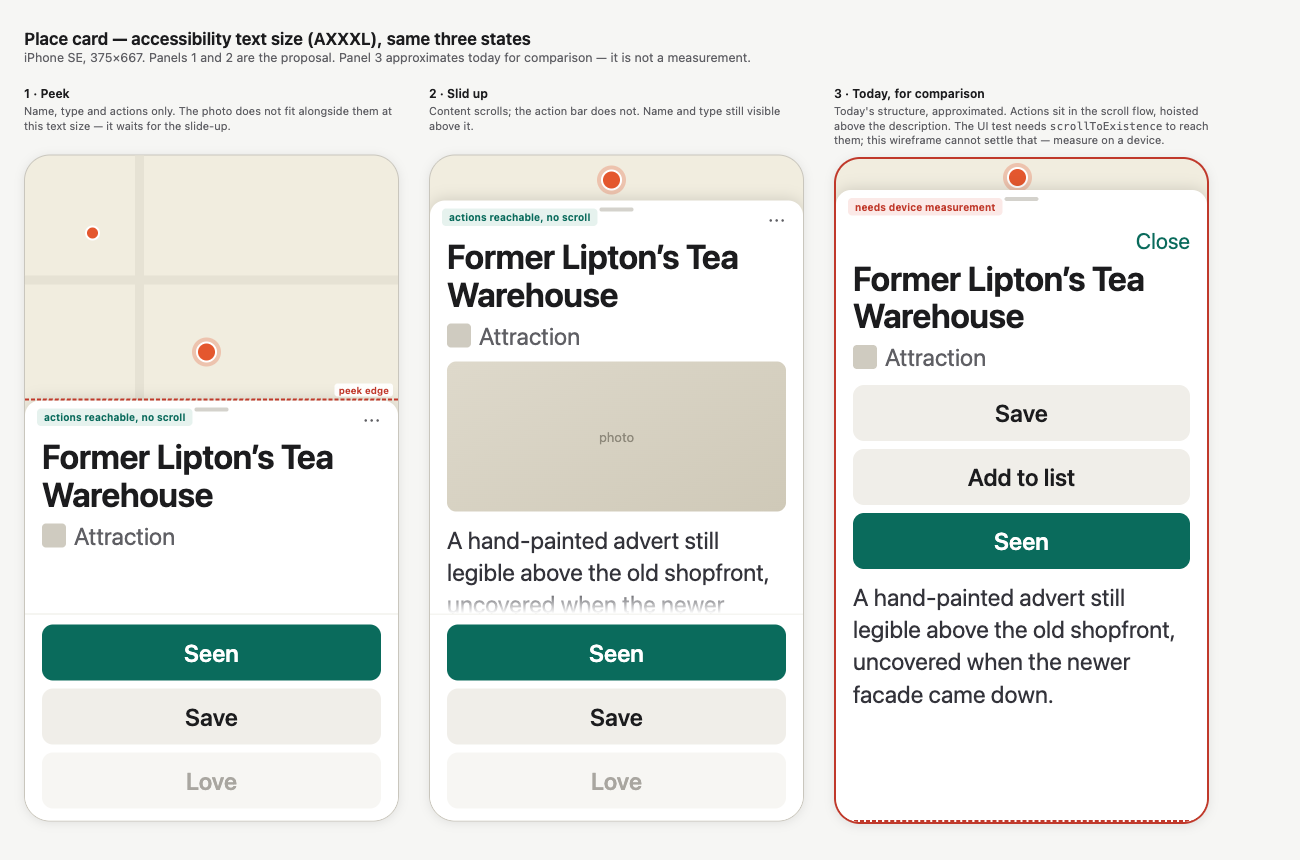
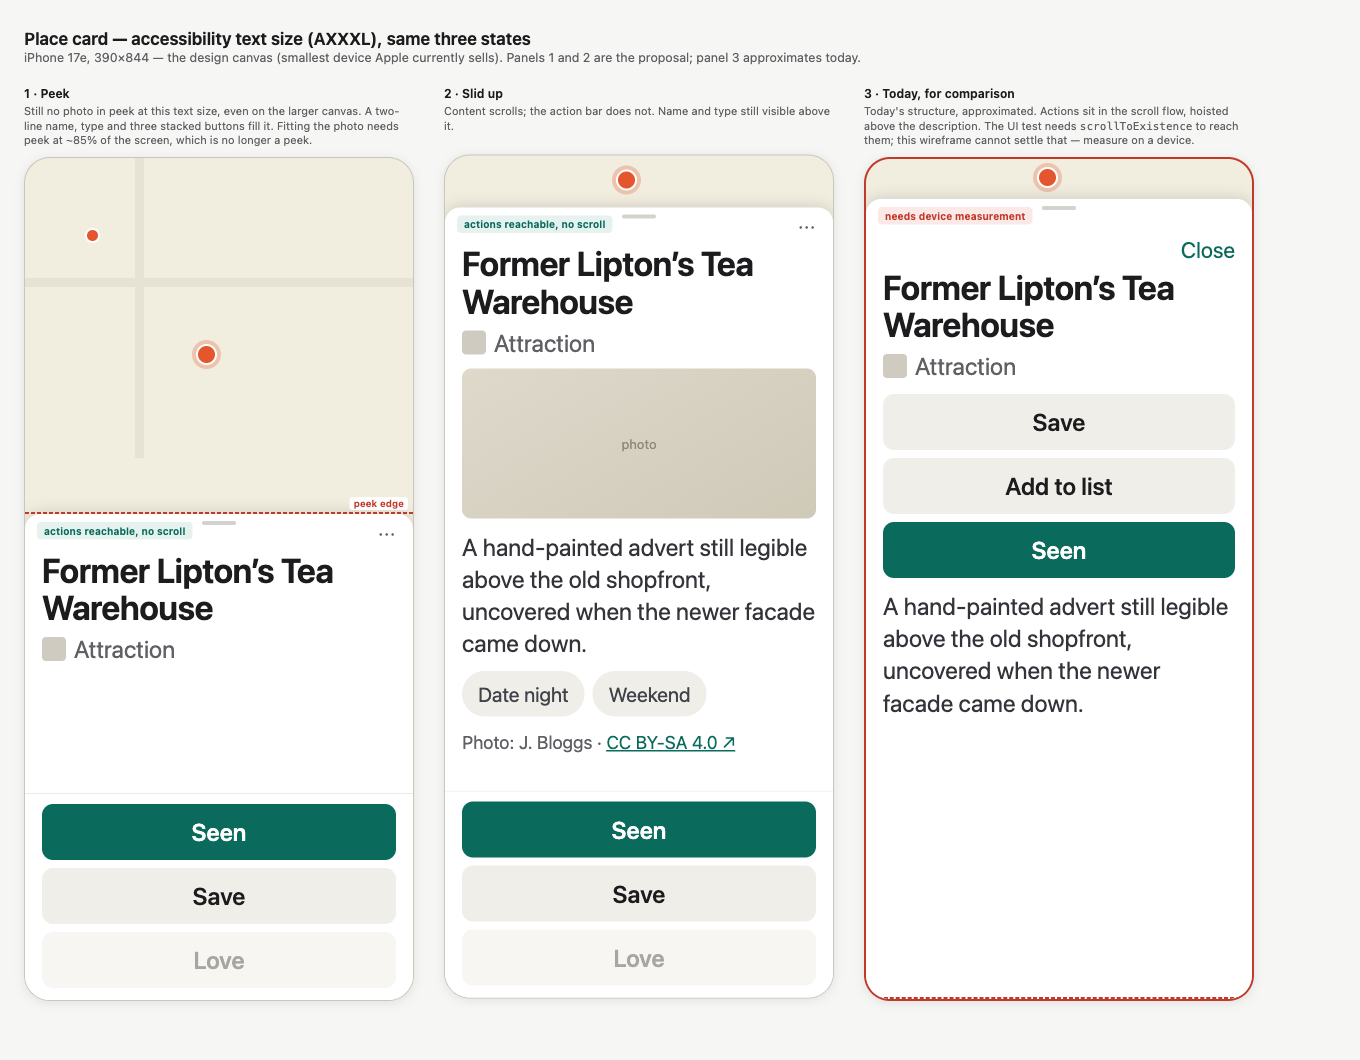
docs: WP-CARD-LAYOUT re-render on the correct device floor
Adds the two-tier device ruling: deployment target stays iOS 18, design
floor is what Apple currently sells, everything between gets degradation
verified rather than optimised.

Research finding: the OS-version argument does not move the floor. iOS 27
drops no devices relative to 26, and the smallest screens on iOS 18 are
supported by 27 too. Only the still-sold criterion raises it.

Canvas moves from 375x667 to 390x844. Also corrects the mini to 360x780
per Apple's HIG; third-party spec sites have it wrong, so the true width
floor is narrower than the SE.

The peek photo finding was re-derived on the new canvas, not ported. It
survives, more narrowly.

diff --git a/docs/design/card/wf-ax.html b/docs/design/card/wf-ax.html
@@ -7,10 +7,10 @@
   h1{ font-size:17px; font-weight:650; margin-bottom:2px; }
   .sub{ font-size:12.5px; color:var(--dim); margin-bottom:22px; }
   .row{ display:flex; gap:30px; align-items:flex-start; }
-  .col{ width:375px; }
+  .col{ width:390px; }
   .cap{ font-size:12px; font-weight:650; margin-bottom:3px; }
   .capsub{ font-size:11px; color:var(--dim); margin-bottom:9px; line-height:1.35; min-height:42px;}
-  .phone{ width:375px; height:667px; border:1px solid #c9c6bd; border-radius:26px; overflow:hidden; position:relative; background:var(--paper); box-shadow:0 2px 10px rgba(0,0,0,.09); }
+  .phone{ width:390px; height:844px; border:1px solid #c9c6bd; border-radius:26px; overflow:hidden; position:relative; background:var(--paper); box-shadow:0 2px 10px rgba(0,0,0,.09); }
   .map{ position:absolute; inset:0; }
   .road{ position:absolute; background:#e6e2d4; }
   .pin{ position:absolute; width:15px; height:15px; border-radius:50%; background:var(--pin); border:2px solid #fff; }
@@ -44,22 +44,22 @@
 </style></head><body>
 
 <h1>Place card — accessibility text size (AXXXL), same three states</h1>
-<div class="sub">iPhone SE, 375&times;667. Panels 1 and 2 are the proposal. Panel 3 approximates today for comparison — it is not a measurement.</div>
+<div class="sub">iPhone 17e, 390&times;844 — the design canvas (smallest device Apple currently sells). Panels 1 and 2 are the proposal; panel 3 approximates today.</div>
 
 <div class="row">
 
   <!-- PEEK AX -->
   <div class="col">
     <div class="cap">1 · Peek</div>
-    <div class="capsub">Name, type and actions only. The photo does not fit alongside them at this text size — it waits for the slide-up.</div>
+    <div class="capsub">Still no photo in peek at this text size, even on the larger canvas. A two-line name, type and three stacked buttons fill it. Fitting the photo needs peek at ~85% of the screen, which is no longer a peek.</div>
     <div class="phone">
       <div class="map">
-        <div class="road" style="left:0;top:120px;width:375px;height:9px"></div>
+        <div class="road" style="left:0;top:120px;width:390px;height:9px"></div>
         <div class="road" style="left:110px;top:0;width:9px;height:300px"></div>
         <div class="pin" style="left:60px;top:70px"></div>
         <div class="pin sel" style="left:171px;top:186px"></div>
       </div>
-      <div class="sheet" style="height:420px">
+      <div class="sheet" style="height:486px">
         <div class="badge ok">actions reachable, no scroll</div>
         <div class="grab"></div>
         <div class="ovf">⋯</div>
@@ -72,8 +72,8 @@
           <div class="btn prom">Seen</div><div class="btn">Save</div><div class="btn ghost">Love</div>
         </div>
       </div>
-      <div class="fold" style="bottom:420px"></div>
-      <div class="foldlab" style="bottom:424px">peek edge</div>
+      <div class="fold" style="bottom:486px"></div>
+      <div class="foldlab" style="bottom:490px">peek edge</div>
     </div>
   </div>
 
@@ -83,7 +83,7 @@
     <div class="capsub">Content scrolls; the action bar does not. Name and type still visible above it.</div>
     <div class="phone">
       <div class="map"><div class="pin sel" style="left:171px;top:14px"></div></div>
-      <div class="sheet" style="height:620px">
+      <div class="sheet" style="height:790px">
         <div class="badge ok">actions reachable, no scroll</div>
         <div class="grab"></div>
         <div class="ovf">⋯</div>
@@ -111,7 +111,7 @@
     <div class="capsub">Today's structure, approximated. Actions sit in the scroll flow, hoisted above the description. The UI test needs <code>scrollToExistence</code> to reach them; this wireframe cannot settle that — measure on a device.</div>
     <div class="phone bad" style="border-width:2px">
       <div class="map"><div class="pin sel" style="left:171px;top:8px"></div></div>
-      <div class="sheet" style="height:632px">
+      <div class="sheet" style="height:800px">
         <div class="badge no">needs device measurement</div>
         <div class="grab"></div>
         <div class="clip">

diff --git a/docs/design/card/wf-default.html b/docs/design/card/wf-default.html
@@ -7,10 +7,10 @@
   h1{ font-size:17px; font-weight:650; margin-bottom:2px; }
   .sub{ font-size:12.5px; color:var(--dim); margin-bottom:22px; }
   .row{ display:flex; gap:30px; align-items:flex-start; }
-  .col{ width:375px; }
+  .col{ width:390px; }
   .cap{ font-size:12px; font-weight:650; margin-bottom:3px; }
   .capsub{ font-size:11px; color:var(--dim); margin-bottom:9px; line-height:1.35; min-height:29px;}
-  .phone{ width:375px; height:667px; border:1px solid #c9c6bd; border-radius:26px; overflow:hidden; position:relative; background:var(--paper); box-shadow:0 2px 10px rgba(0,0,0,.09); }
+  .phone{ width:390px; height:844px; border:1px solid #c9c6bd; border-radius:26px; overflow:hidden; position:relative; background:var(--paper); box-shadow:0 2px 10px rgba(0,0,0,.09); }
   /* map behind */
   .map{ position:absolute; inset:0; background:var(--paper); }
   .road{ position:absolute; background:#e6e2d4; }
@@ -43,7 +43,7 @@
 </style></head><body>
 
 <h1>Place card — Rob's model, default text size</h1>
-<div class="sub">iPhone SE, 375&times;667. Peek → slide up → scroll. Red dashed line marks where the sheet clips.</div>
+<div class="sub">iPhone 17e, 390&times;844 (design canvas). Peek → slide up → scroll. Red dashed line marks where the sheet clips.</div>
 
 <div class="row">
 
@@ -53,7 +53,7 @@
     <div class="capsub">Photo + taster. Decide from here, or slide up. Map still usable.</div>
     <div class="phone">
       <div class="map">
-        <div class="road" style="left:0;top:120px;width:375px;height:9px"></div>
+        <div class="road" style="left:0;top:120px;width:390px;height:9px"></div>
         <div class="road" style="left:110px;top:0;width:9px;height:340px"></div>
         <div class="road" style="left:250px;top:0;width:7px;height:340px"></div>
         <div class="pin" style="left:60px;top:70px"></div>
@@ -61,7 +61,7 @@
         <div class="pin sel" style="left:171px;top:196px"></div>
         <div class="pin" style="left:296px;top:150px"></div>
       </div>
-      <div class="sheet" style="height:344px">
+      <div class="sheet" style="height:404px">
         <div class="grab"></div>
         <div class="ovf">⋯</div>
         <div class="pad">
@@ -75,8 +75,8 @@
           <div class="btn prom">Seen</div><div class="btn">Save</div><div class="btn ghost">Love</div>
         </div>
       </div>
-      <div class="fold" style="bottom:344px"></div>
-      <div class="foldlab" style="bottom:348px">peek edge</div>
+      <div class="fold" style="bottom:404px"></div>
+      <div class="foldlab" style="bottom:408px">peek edge</div>
     </div>
   </div>
 
@@ -86,10 +86,10 @@
     <div class="capsub">Full sheet. With a short description everything fits and the sheet is mostly empty — the peek was already enough.</div>
     <div class="phone">
       <div class="map">
-        <div class="road" style="left:0;top:40px;width:375px;height:9px"></div>
+        <div class="road" style="left:0;top:40px;width:390px;height:9px"></div>
         <div class="pin sel" style="left:171px;top:22px"></div>
       </div>
-      <div class="sheet" style="height:566px">
+      <div class="sheet" style="height:742px">
         <div class="grab"></div>
         <div class="ovf">⋯</div>
         <div class="clip">
@@ -115,7 +115,7 @@
     <div class="capsub">Long description, scrolled down. Actions stay put; attribution is at the end of the scroll.</div>
     <div class="phone">
       <div class="map"><div class="pin sel" style="left:171px;top:22px"></div></div>
-      <div class="sheet" style="height:566px">
+      <div class="sheet" style="height:742px">
         <div class="grab"></div>
         <div class="ovf">⋯</div>
         <div class="clip" style="position:relative">

diff --git a/docs/superpowers/plans/2026-07-19-wp-card-layout.md b/docs/superpowers/plans/2026-07-19-wp-card-layout.md
@@ -14,7 +14,32 @@ Rob's interaction model, 2026-07-19:
 
 Three states: **peek → slide up → scroll**. Scrolling is not a defect. The first draft of this design treated it as one and argued the core loop must never be scrolled to. That was a product judgement Rob had not made, and it is withdrawn.
 
-## 2. The wireframes
+## 2. The device floor
+
+Rob, 2026-07-19: *"we support ios18 but cant really keep designing to out of date os versions."* The resolution is two-tier:
+
+- **Deployment target stays iOS 18.** Old devices keep running the app. Compatibility is unchanged.
+- **The design floor is what Apple currently sells.** We optimise there.
+- **Everything between gets graceful degradation verified, not optimised.** The layout must not break; it need not be tuned.
+
+**The OS-version argument does not move the floor.** iOS 27 drops no devices relative to iOS 26, and the smallest screens supported by iOS 18 are supported by iOS 27 too. Only the *still-sold* criterion raises it.
+
+| Criterion | Smallest by height | Smallest by width |
+|---|---|---|
+| Runs iOS 18 (deployment target) | 667 pt — iPhone SE 2nd/3rd gen | 360 pt — iPhone 12/13 mini |
+| Runs iOS 26 (current) | 667 pt — same | 360 pt — same |
+| Runs iOS 27 (incoming) | 667 pt — same | 360 pt — same |
+| **Apple still sells** | **844 pt — iPhone 17e** | **390 pt — iPhone 17e** |
+
+**Design canvas: 390×844 pt** (iPhone 17e). **Degradation floor: 360×667 pt composite** — no real device is that size; the two real stress cases are 360×780 (mini, narrowest) and 375×667 (SE, shortest).
+
+Sources: [iOS 18 compatibility](https://support.apple.com/guide/iphone/iphone-models-compatible-with-ios-18-iphe3fa5df43/18.0/ios/18.0) · [iOS 26 compatibility](https://support.apple.com/guide/iphone/iphone-models-compatible-with-ios-26-iphe3fa5df43/ios) · [iOS 27 device list](https://www.apple.com/os/ios/) (Apple-published but pre-release — treat as provisional) · [HIG layout / screen sizes](https://developer.apple.com/design/human-interface-guidelines/layout) · [current lineup](https://www.apple.com/shop/buy-iphone).
+
+Two corrections worth recording. The first draft of these wireframes used **375×667 (iPhone SE)** as the canvas — wrong per the ruling above. And the iPhone mini is **360×780 pt**, not 375×812: Apple's HIG table is authoritative and several third-party spec sites disagree with it. So the true width floor is narrower than the SE, not wider.
+
+Apple publishes no minimum supported screen size. The HIG's only relevant guidance is about *testing* at the largest and smallest layouts, which maps onto this two-tier position exactly: design at 390×844, test at 360×780 and 375×667.
+
+## 3. The wireframes
 
 ### Default text size
 
@@ -26,23 +51,25 @@ Three states: **peek → slide up → scroll**. Scrolling is not a defect. The f
 
 Sources are committed beside the images (`docs/design/card/wf-default.html`, `wf-ax.html`) so they can be re-rendered and edited rather than redrawn.
 
-## 3. What the pictures show
+## 4. What the pictures show
 
 **Peek carries the decision.** Name, type, photo, one taster line. On the evidence of the default-size render, that is enough to decide "worth a look" without expanding. The map stays usable behind it.
 
 **Slid up, with a short description, the sheet is mostly empty.** Panel 2 at default size is honest about this: the content does not fill the height. That is an argument for the peek doing the work, not against the model. It also means the slide-up earns its place only when there is something to reveal — which is the case once full descriptions ship.
 
-**At accessibility sizes the photo does not fit in peek.** Name and type alone consume the peek height. The photo waits for the slide-up. That is a real consequence of Rob's model at large text and it should be a conscious choice, not a surprise.
+**At accessibility sizes the photo still does not fit in peek**, even on the larger canvas. A two-line name, the type row and three stacked buttons fill it. Fitting the photo needs peek at roughly 85% of the screen, which stops being a peek.
 
-**Actions are drawn pinned in all four proposal panels.** That is one option, shown so it can be compared, not a conclusion. §5 prices it.
+This finding was first derived on the wrong canvas, and it survived the correction — but it was re-derived, not carried over. On the corrected canvas it is a closer call than it was.
 
-## 4. What the pictures cannot settle
+**Actions are drawn pinned in all four proposal panels.** That is one option, shown so it can be compared, not a conclusion. §6 prices it.
+
+## 5. What the pictures cannot settle
 
 Panel 3 of the accessibility render approximates today's card. **It is not a measurement**, and in the wireframe the actions look reachable — which contradicts the UI test, where `scrollToExistence` is required for Save, Seen and Love at AXXXL.
 
 One of those is wrong and a mockup cannot say which. **Measure on a device before any decision that depends on it.** The first draft of this design built its entire argument on the test evidence without checking it against a rendering, which is how it reached a conclusion Rob rejected.
 
-## 5. Where the actions live — the open question
+## 6. Where the actions live — the open question
 
 Rob's list has six elements. Actions are not among them. So their placement is genuinely open, and the wireframes show only one answer.
 
@@ -52,9 +79,9 @@ Rob's list has six elements. Actions are not among them. So their placement is g
 
 **C. In peek only.** Actions live in the peek state, and the slid-up state is for reading. Matches "decide from the toast, expand to read". Costs: a user who expands to read then wants to act must collapse or scroll back.
 
-**Recommendation: A, conditional on the device measurement in §4.** If the measurement shows today's in-flow actions are reachable at AXXXL, B becomes defensible and the case for A weakens to "one order instead of two".
+**Recommendation: A, conditional on the device measurement in §5.** If the measurement shows today's in-flow actions are reachable at AXXXL, B becomes defensible and the case for A weakens to "one order instead of two".
 
-## 6. Constraints any option must answer
+## 7. Constraints any option must answer
 
 Carried from the research pass. These do not depend on which option wins.
 
@@ -68,7 +95,7 @@ Carried from the research pass. These do not depend on which option wins.
 - **No contrast test exists.** Any coloured text this design adds — the attribution link — is the first place the committed WCAG AA 4.5:1 is visibly on the line.
 - **`altNames` is decoded and never rendered.** Dead data either way.
 
-## 7. Test delta
+## 8. Test delta
 
 Unchanged from the analysis pass, and it only bites if option A wins.
 
@@ -78,10 +105,11 @@ Unchanged from the analysis pass, and it only bites if option A wins.
 
 The six content elements keep their order in every option. Only the actions move.
 
-## 8. What was withdrawn from the first draft
+## 9. What was withdrawn from the first draft
 
 Recorded so it is not re-derived.
 
 - **"The core loop is below the fold, therefore ceremony."** The observation stands; the verdict does not. Principle 3 says one tap, no ceremony. It does not say zero scroll.
 - **The pinned bar as the thesis.** Demoted to one option among three.
+- **The device canvas.** The first renders used 375×667 (iPhone SE). Wrong per §2. The renders were rebuilt rather than relabelled, and the one finding that depended on the canvas was re-derived rather than carried across.
 - **The panel's ranking.** The four-layout analysis scored progressive disclosure last, at 18/40 — and progressive disclosure is Rob's model. The judges' main objection was that the compact state ends at a clean edge because no description renders in production. That was true on the day and is expiring: blurb emission is now commissioned. The brief fed the panel a temporary constraint without marking it temporary, so the panel optimised against a data gap. The analysis is retained in the PR history as evidence, not as the deliverable.
